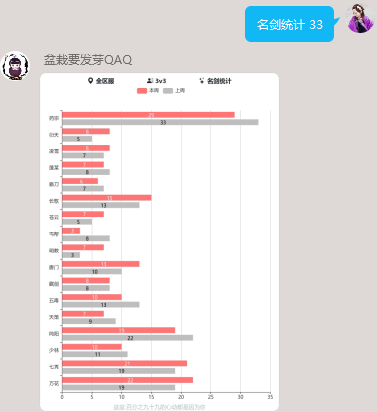
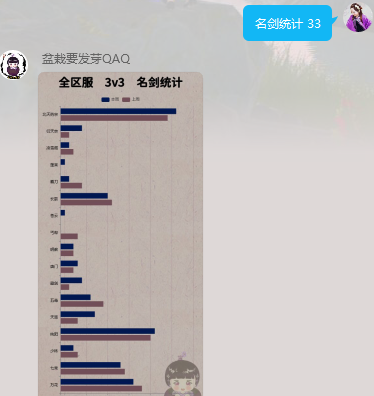
修改图片

diff --git a/jx3docs/盆栽护养手册.html b/jx3docs/盆栽护养手册.html
@@ -1,4 +1,4 @@
-<html xmlns:o="urn:schemas-microsoft-com:office:office" xmlns:w="urn:schemas-microsoft-com:office:word" xmlns:dt="uuid:C2F41010-65B3-11d1-A29F-00AA00C14882" xmlns="http://www.w3.org/TR/REC-html40"><head><meta http-equiv=Content-Type  content="text/html; charset=gb2312" ><meta name=ProgId  content=Word.Document ><meta name=Generator  content="Microsoft Word 14" ><meta name=Originator  content="Microsoft Word 14" ><title></title><!--[if gte mso 9]><xml><o:DocumentProperties><o:Author>小苹果</o:Author><o:LastAuthor>Administrator</o:LastAuthor><o:Revision>1</o:Revision><o:Pages>24</o:Pages><o:Characters>2063</o:Characters></o:DocumentProperties><o:CustomDocumentProperties><o:KSOProductBuildVer dt:dt="string" >2052-11.1.0.12358</o:KSOProductBuildVer><o:ICV dt:dt="string" >726FF7E75B594842A97C83FBC0B1EAA9</o:ICV></o:CustomDocumentProperties></xml><![endif]--><!--[if gte mso 9]><xml><o:OfficeDocumentSettings></o:OfficeDocumentSettings></xml><![endif]--><!--[if gte mso 9]><xml><w:WordDocument><w:BrowserLevel>MicrosoftInternetExplorer4</w:BrowserLevel><w:DisplayHorizontalDrawingGridEvery>0</w:DisplayHorizontalDrawingGridEvery><w:DisplayVerticalDrawingGridEvery>2</w:DisplayVerticalDrawingGridEvery><w:DocumentKind>DocumentNotSpecified</w:DocumentKind><w:DrawingGridVerticalSpacing>7.8 磅</w:DrawingGridVerticalSpacing><w:PunctuationKerning></w:PunctuationKerning><w:View>Web</w:View><w:Compatibility><w:AdjustLineHeightInTable/><w:DontGrowAutofit/><w:BalanceSingleByteDoubleByteWidth/><w:DoNotExpandShiftReturn/><w:UseFELayout/></w:Compatibility><w:Zoom>0</w:Zoom></w:WordDocument></xml><![endif]--><!--[if gte mso 9]><xml><w:LatentStyles DefLockedState="false"  DefUnhideWhenUsed="true"  DefSemiHidden="true"  DefQFormat="false"  DefPriority="99"  LatentStyleCount="260" >
+<html xmlns:o="urn:schemas-microsoft-com:office:office" xmlns:w="urn:schemas-microsoft-com:office:word" xmlns:dt="uuid:C2F41010-65B3-11d1-A29F-00AA00C14882" xmlns="http://www.w3.org/TR/REC-html40"><head><meta http-equiv=Content-Type  content="text/html; charset=gb2312" ><meta name=ProgId  content=Word.Document ><meta name=Generator  content="Microsoft Word 14" ><meta name=Originator  content="Microsoft Word 14" ><title></title><!--[if gte mso 9]><xml><o:DocumentProperties><o:Author>小苹果</o:Author><o:LastAuthor>Administrator</o:LastAuthor><o:Revision>1</o:Revision><o:Pages>24</o:Pages><o:Characters>2063</o:Characters></o:DocumentProperties><o:CustomDocumentProperties><o:KSOProductBuildVer dt:dt="string" >2052-11.1.0.12358</o:KSOProductBuildVer><o:ICV dt:dt="string" >462933B647664A3C8D208DC6AE9B7C33</o:ICV></o:CustomDocumentProperties></xml><![endif]--><!--[if gte mso 9]><xml><o:OfficeDocumentSettings></o:OfficeDocumentSettings></xml><![endif]--><!--[if gte mso 9]><xml><w:WordDocument><w:BrowserLevel>MicrosoftInternetExplorer4</w:BrowserLevel><w:DisplayHorizontalDrawingGridEvery>0</w:DisplayHorizontalDrawingGridEvery><w:DisplayVerticalDrawingGridEvery>2</w:DisplayVerticalDrawingGridEvery><w:DocumentKind>DocumentNotSpecified</w:DocumentKind><w:DrawingGridVerticalSpacing>7.8 磅</w:DrawingGridVerticalSpacing><w:PunctuationKerning></w:PunctuationKerning><w:View>Web</w:View><w:Compatibility><w:AdjustLineHeightInTable/><w:DontGrowAutofit/><w:BalanceSingleByteDoubleByteWidth/><w:DoNotExpandShiftReturn/><w:UseFELayout/></w:Compatibility><w:Zoom>0</w:Zoom></w:WordDocument></xml><![endif]--><!--[if gte mso 9]><xml><w:LatentStyles DefLockedState="false"  DefUnhideWhenUsed="true"  DefSemiHidden="true"  DefQFormat="false"  DefPriority="99"  LatentStyleCount="260" >
 <w:LsdException Locked="false"  Priority="0"  SemiHidden="false"  UnhideWhenUsed="false"  QFormat="true"  Name="Normal" ></w:LsdException>
 <w:LsdException Locked="false"  Priority="0"  SemiHidden="false"  UnhideWhenUsed="false"  QFormat="true"  Name="heading 1" ></w:LsdException>
 <w:LsdException Locked="false"  Priority="0"  SemiHidden="false"  QFormat="true"  Name="heading 2" ></w:LsdException>
@@ -751,7 +751,7 @@ line-height:11.0000pt;mso-line-height-rule:exactly;mso-list:l0 level1 lfo1;" ><!
 font-size:10.5000pt;mso-font-kerning:1.0000pt;" ><span style='mso-list:Ignore;' >&#118;<span>&nbsp;</span></span></span><![endif]><span style="mso-spacerun:'yes';font-family:黑体;font-size:10.5000pt;
 mso-font-kerning:1.0000pt;" ><font face="黑体" >示例：属性</font> <font face="黑体" >懒小五</font> <font face="黑体" >华乾</font></span><span style="mso-spacerun:'yes';font-family:宋体;mso-ascii-font-family:Calibri;
 mso-hansi-font-family:Calibri;mso-bidi-font-family:'Times New Roman';font-size:10.5000pt;
-mso-font-kerning:1.0000pt;" ><o:p></o:p></span></p><p class=MsoNormal ><img width="312"  height="367"  src="盆栽护养手册.files/盆栽护养手册961.png" ><span style="mso-spacerun:'yes';font-family:Calibri;mso-fareast-font-family:宋体;
+mso-font-kerning:1.0000pt;" ><o:p></o:p></span></p><p class=MsoNormal ><img width="376"  height="398"  src="盆栽护养手册.files/盆栽护养手册961.png" ><span style="mso-spacerun:'yes';font-family:Calibri;mso-fareast-font-family:宋体;
 mso-bidi-font-family:'Times New Roman';font-size:10.5000pt;mso-font-kerning:1.0000pt;" ><o:p>&nbsp;</o:p></span></p><p class=MsoNormal ><b><span style="mso-spacerun:'yes';font-family:黑体;font-weight:bold;
 font-size:12.0000pt;mso-font-kerning:1.0000pt;" ><font face="黑体" >奇遇攻略</font></span></b><span style="mso-spacerun:'yes';font-family:黑体;font-size:10.5000pt;
 mso-font-kerning:1.0000pt;" ><o:p></o:p></span></p><p class=MsoNormal  style="margin-left:21.0000pt;mso-para-margin-left:0.0000gd;text-indent:-21.0000pt;
@@ -1167,7 +1167,7 @@ line-height:11.0000pt;mso-line-height-rule:exactly;mso-list:l0 level1 lfo1;" ><!
 font-size:10.5000pt;mso-font-kerning:1.0000pt;" ><span style='mso-list:Ignore;' >&#118;<span>&nbsp;</span></span></span><![endif]><span style="mso-spacerun:'yes';font-family:黑体;font-size:10.5000pt;
 mso-font-kerning:1.0000pt;" ><font face="黑体" >示例：名剑统计</font> <font face="黑体" >33</font></span><span style="mso-spacerun:'yes';font-family:宋体;mso-ascii-font-family:Calibri;
 mso-hansi-font-family:Calibri;mso-bidi-font-family:'Times New Roman';font-size:10.5000pt;
-mso-font-kerning:1.0000pt;" ><o:p></o:p></span></p><p class=MsoNormal ><img width="377"  height="412"  src="盆栽护养手册.files/盆栽护养手册2022.png" ><span style="mso-spacerun:'yes';font-family:Calibri;mso-fareast-font-family:宋体;
+mso-font-kerning:1.0000pt;" ><o:p></o:p></span></p><p class=MsoNormal ><img width="374"  height="396"  src="盆栽护养手册.files/盆栽护养手册2022.png" ><span style="mso-spacerun:'yes';font-family:Calibri;mso-fareast-font-family:宋体;
 mso-bidi-font-family:'Times New Roman';font-size:10.5000pt;mso-font-kerning:1.0000pt;" ><o:p>&nbsp;</o:p></span></p><p class=MsoNormal  style="mso-outline-level:3;" ><b><span style="mso-spacerun:'yes';font-family:黑体;font-weight:bold;
 font-size:12.0000pt;mso-font-kerning:1.0000pt;" ><font face="黑体" >招募查询</font></span></b><span style="mso-spacerun:'yes';font-family:黑体;font-size:10.5000pt;
 mso-font-kerning:1.0000pt;" ><o:p></o:p></span></p><p class=MsoNormal  style="margin-left:21.0000pt;mso-para-margin-left:0.0000gd;text-indent:-21.0000pt;
